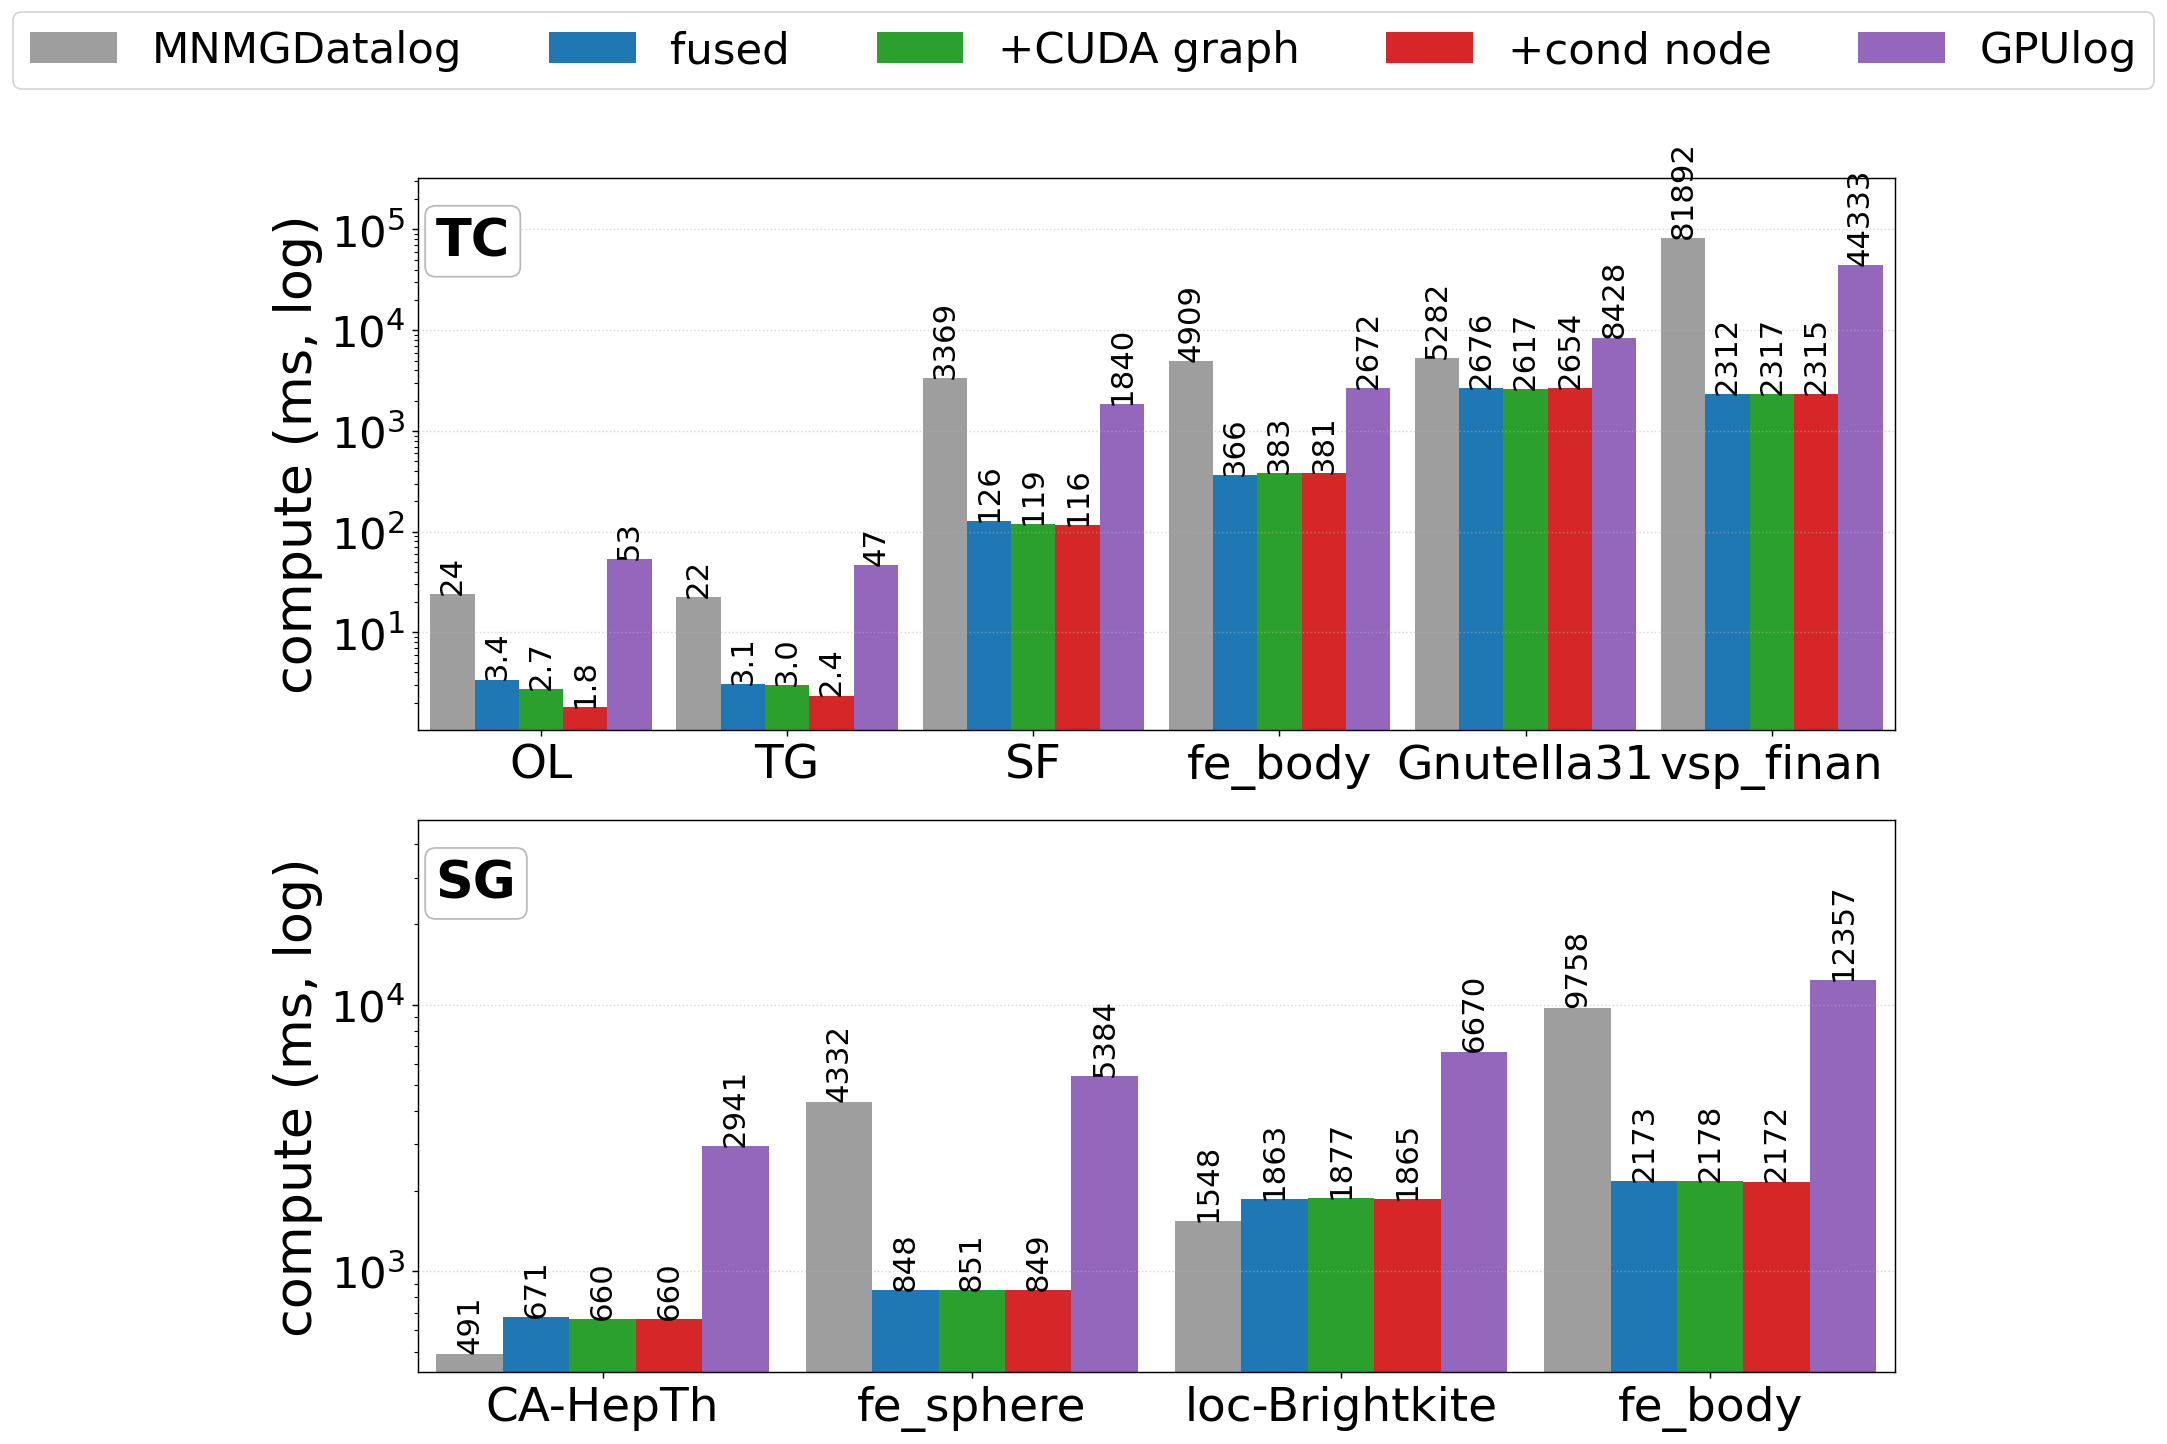
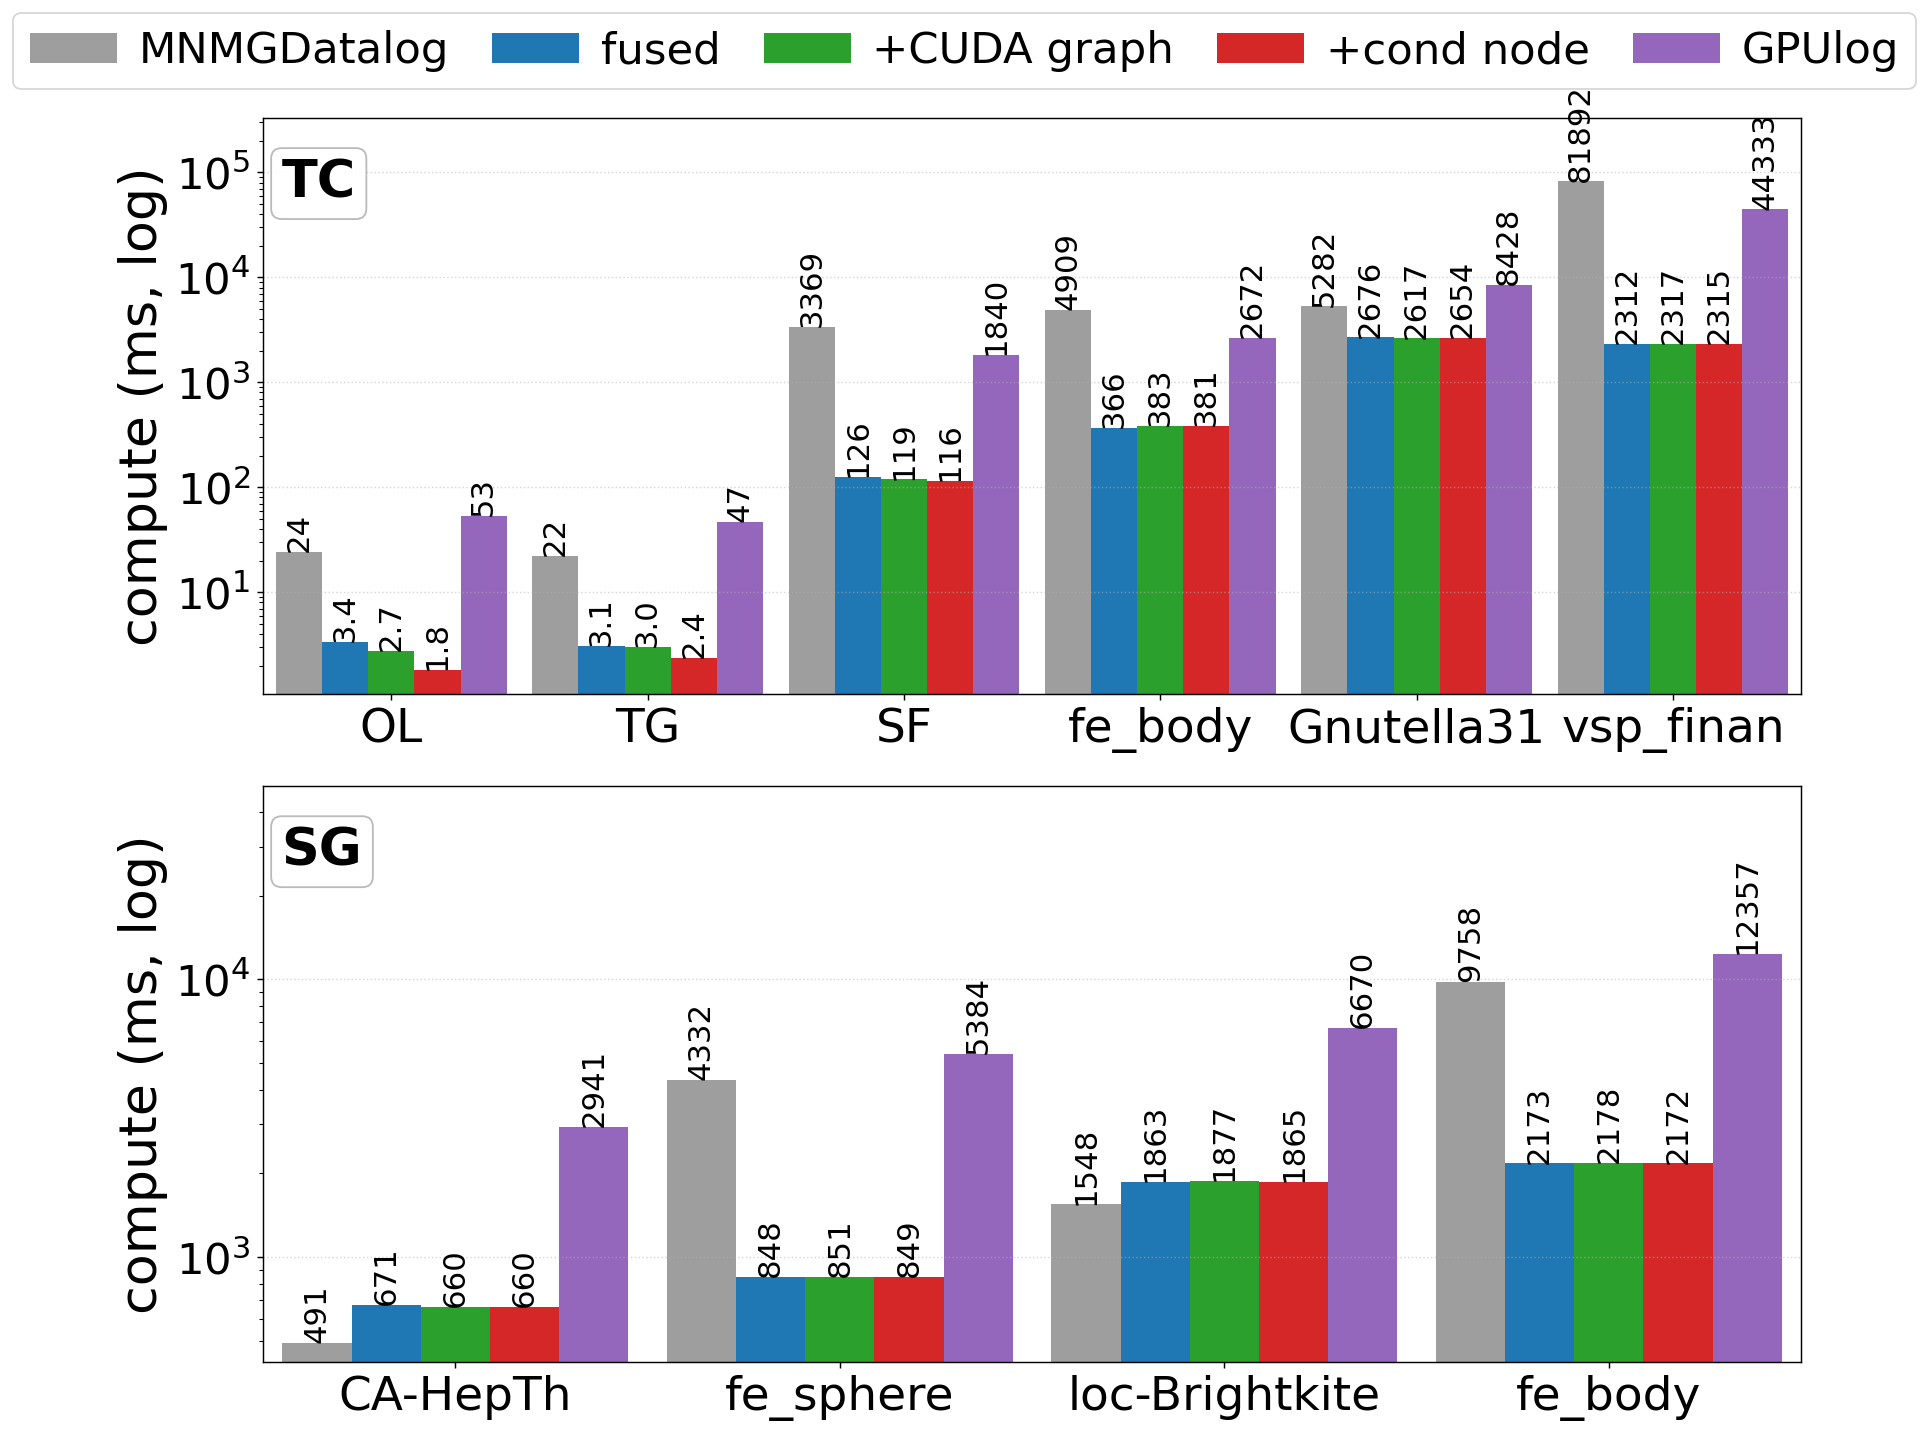
compute chart: full-width panels matching legend, tighter legend gap

diff --git a/tc_benchmark/tests/plot_compute.py b/tc_benchmark/tests/plot_compute.py
@@ -158,11 +158,15 @@ def main():
     _panel(ax_tc, TC_ORDER, tc, tc_g, "TC")
     _panel(ax_sg, SG_ORDER, sg, sg_g, "SG")
 
-    # single shared legend above both panels
+    # Make the panels span (almost) the full figure width, matching the full-width
+    # legend, with only enough left margin for the y-axis label + ticks.
+    fig.subplots_adjust(left=0.085, right=0.995, top=0.93, bottom=0.06, hspace=0.16)
+
+    # single shared legend across the full width, sitting just above the TC panel
     handles, labels = ax_tc.get_legend_handles_labels()
     fig.legend(handles, labels, loc="lower center", ncol=len(ENGINES),
-               frameon=True, bbox_to_anchor=(0.5, 0.945))
-    fig.tight_layout(pad=0.6, rect=(0, 0, 1, 0.95))
+               frameon=True, bbox_to_anchor=(0.5, 0.935),
+               columnspacing=1.0, handletextpad=0.5)
     _save(fig, os.path.join(a.outdir, "compute.png"))
 
 
